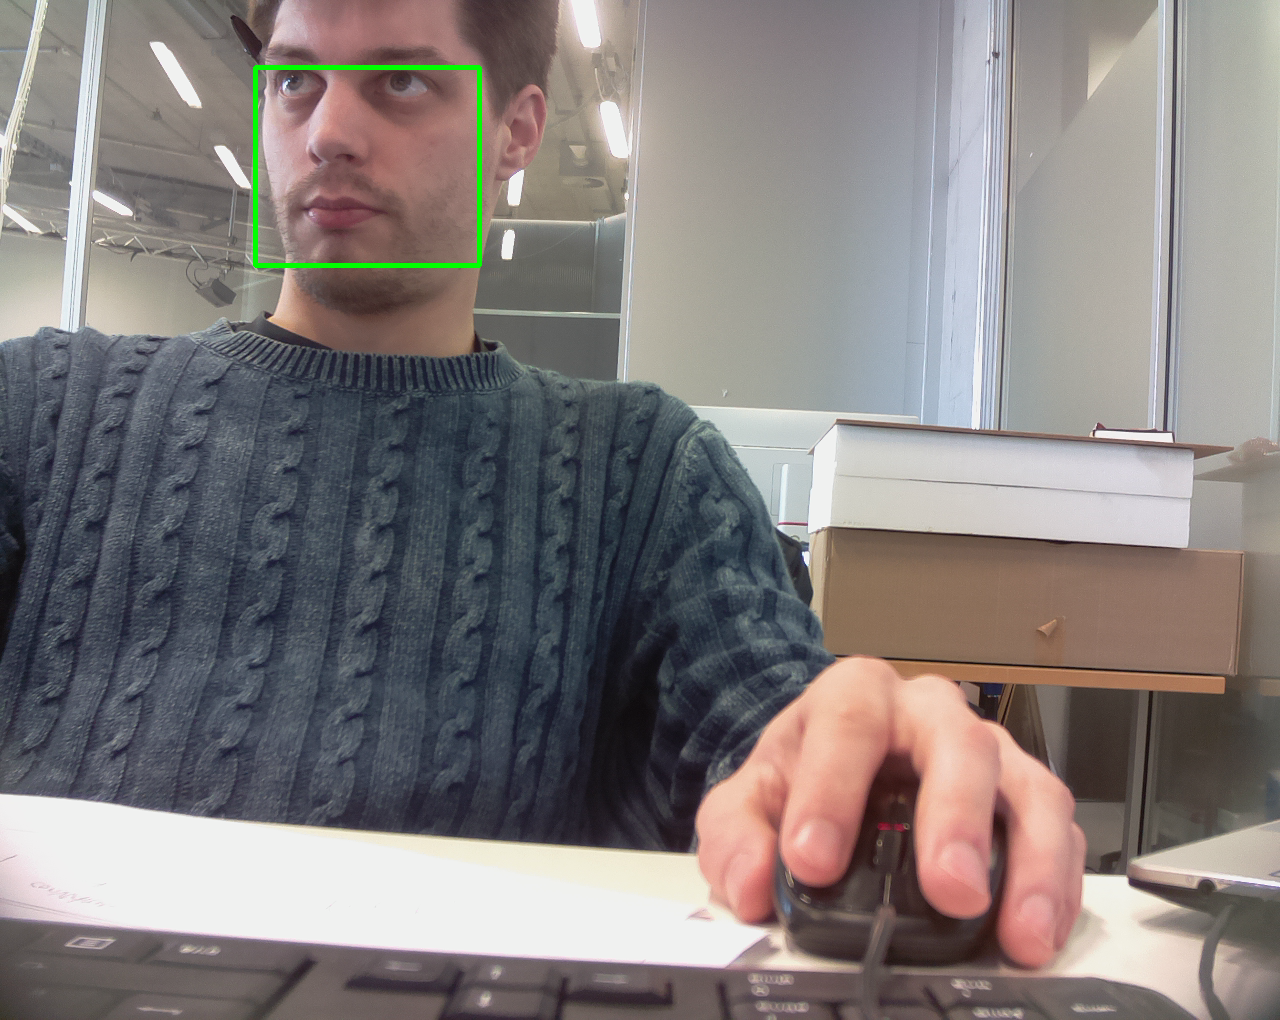
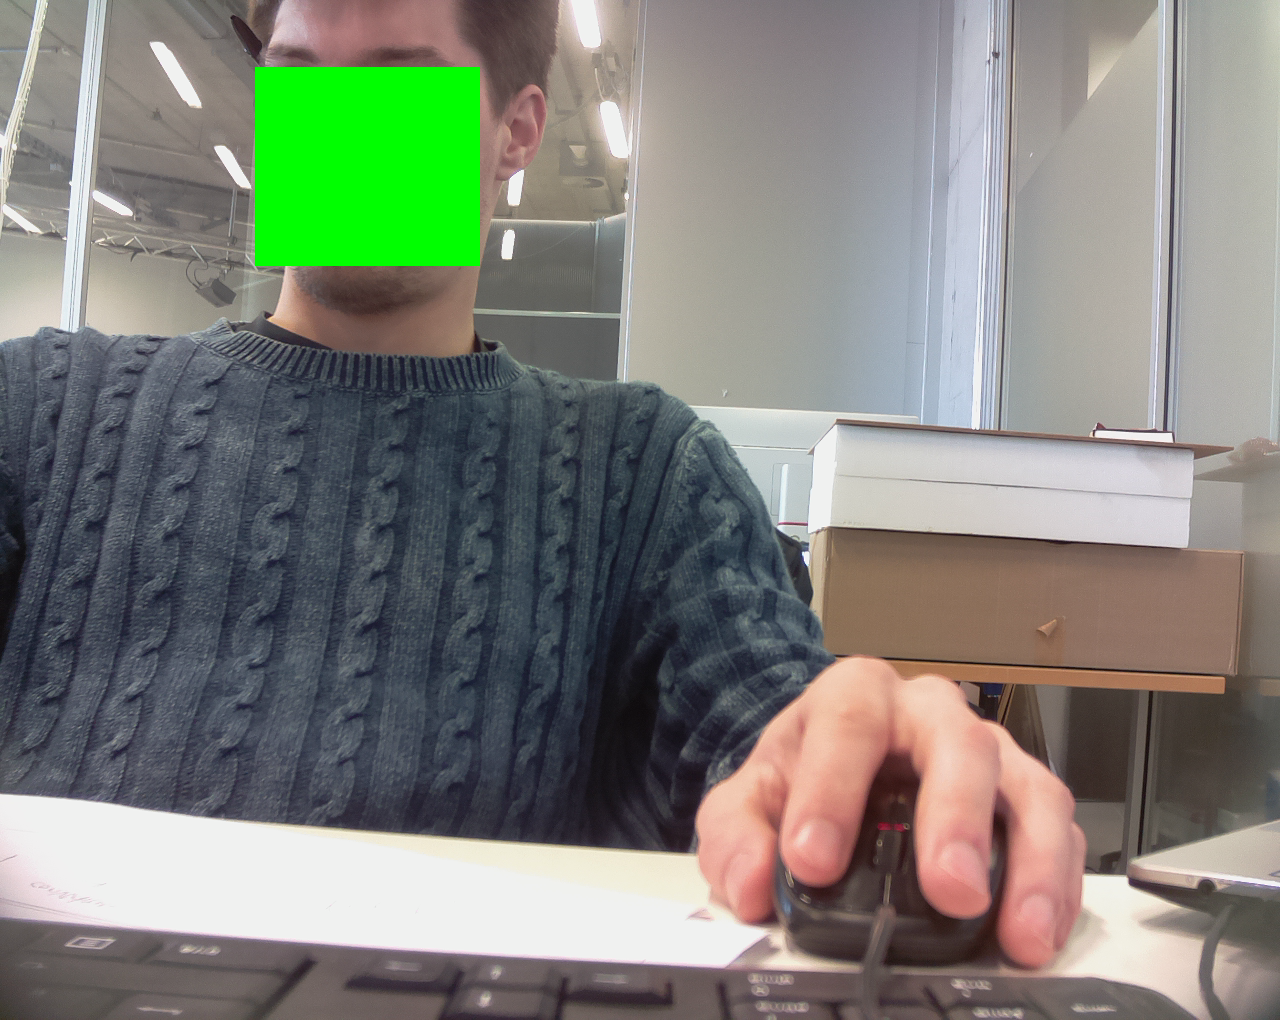
Add example

Changed region(s): [[0.1875, 0.0608, 0.375, 0.2735]]

diff --git a/README.md b/README.md
@@ -1,5 +1,7 @@
 Fork of https://github.com/iitzco/faced
 
+Execute example with faced --input flip.png --save
+
 # *faced*
 
 🚀 😏 CPU (Near) Real Time face detection
